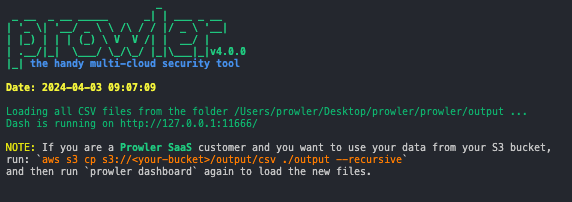
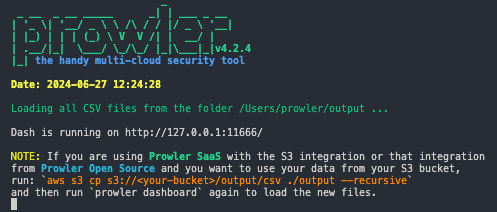
fix(docs): rewrite dashboard docs

Changed region(s): [[0.0, 0.0297, 0.9054, 0.6535], [0.0, 0.6832, 0.996, 1.0]]

diff --git a/dashboard/__main__.py b/dashboard/__main__.py
@@ -21,7 +21,7 @@ print(
     f"{Fore.GREEN}Loading all CSV files from the folder {folder_path_overview} ...\n{Style.RESET_ALL}"
 )
 cli.show_server_banner = lambda *x: click.echo(
-    f"{Fore.YELLOW}NOTE:{Style.RESET_ALL} If you are a {Fore.GREEN}{Style.BRIGHT}Prowler SaaS{Style.RESET_ALL} customer and you want to use your data from your S3 bucket,\nrun: `{orange_color}aws s3 cp s3://<your-bucket>/output/csv ./output --recursive{Style.RESET_ALL}`\nand then run `prowler dashboard` again to load the new files."
+    f"{Fore.YELLOW}NOTE:{Style.RESET_ALL} If you are using {Fore.GREEN}{Style.BRIGHT}Prowler SaaS{Style.RESET_ALL} with the S3 integration or that integration \nfrom {Fore.CYAN}{Style.BRIGHT}Prowler Open Source{Style.RESET_ALL} and you want to use your data from your S3 bucket,\nrun: `{orange_color}aws s3 cp s3://<your-bucket>/output/csv ./output --recursive{Style.RESET_ALL}`\nand then run `prowler dashboard` again to load the new files."
 )
 
 # Initialize the app - incorporate css

diff --git a/docs/tutorials/dashboard.md b/docs/tutorials/dashboard.md
@@ -81,7 +81,7 @@ def get_table(data):
 
 ## S3 Integration
 
-If you are a Prowler Saas customer and you want to use your data from your S3 bucket, you can run:
+If you are using Prowler SaaS with the S3 integration or that integration from Prowler Open Source and you want to use your data from your S3 bucket, you can run:
 
 ```sh
 aws s3 cp s3://<your-bucket>/output/csv ./output --recursive
